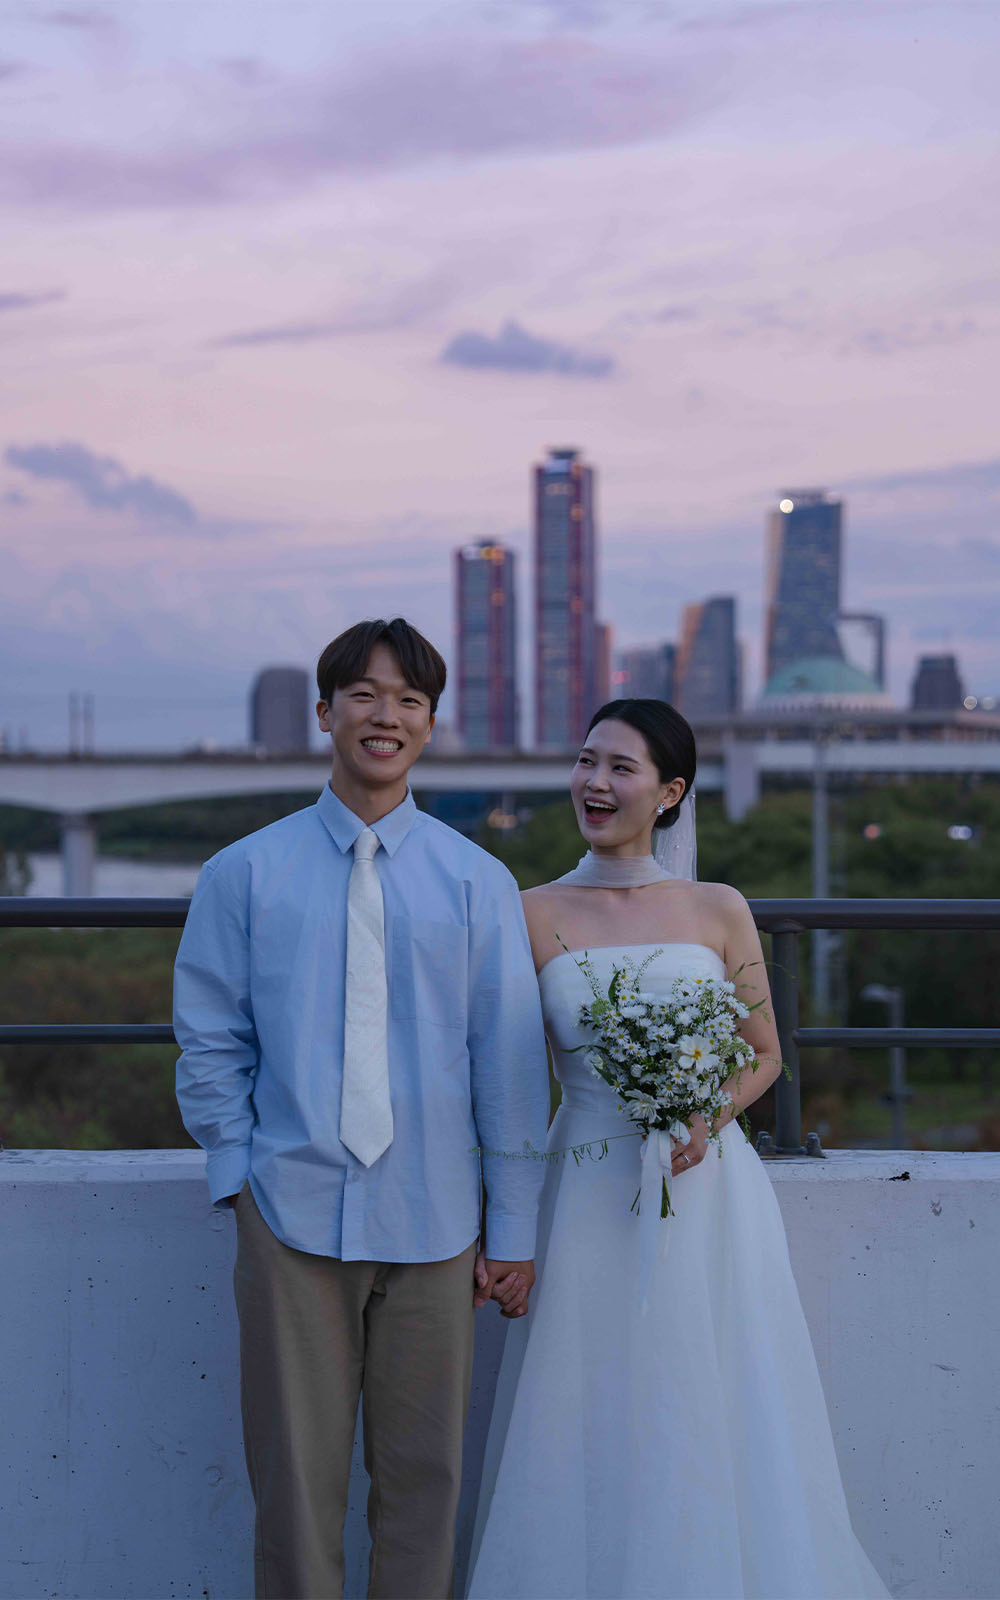
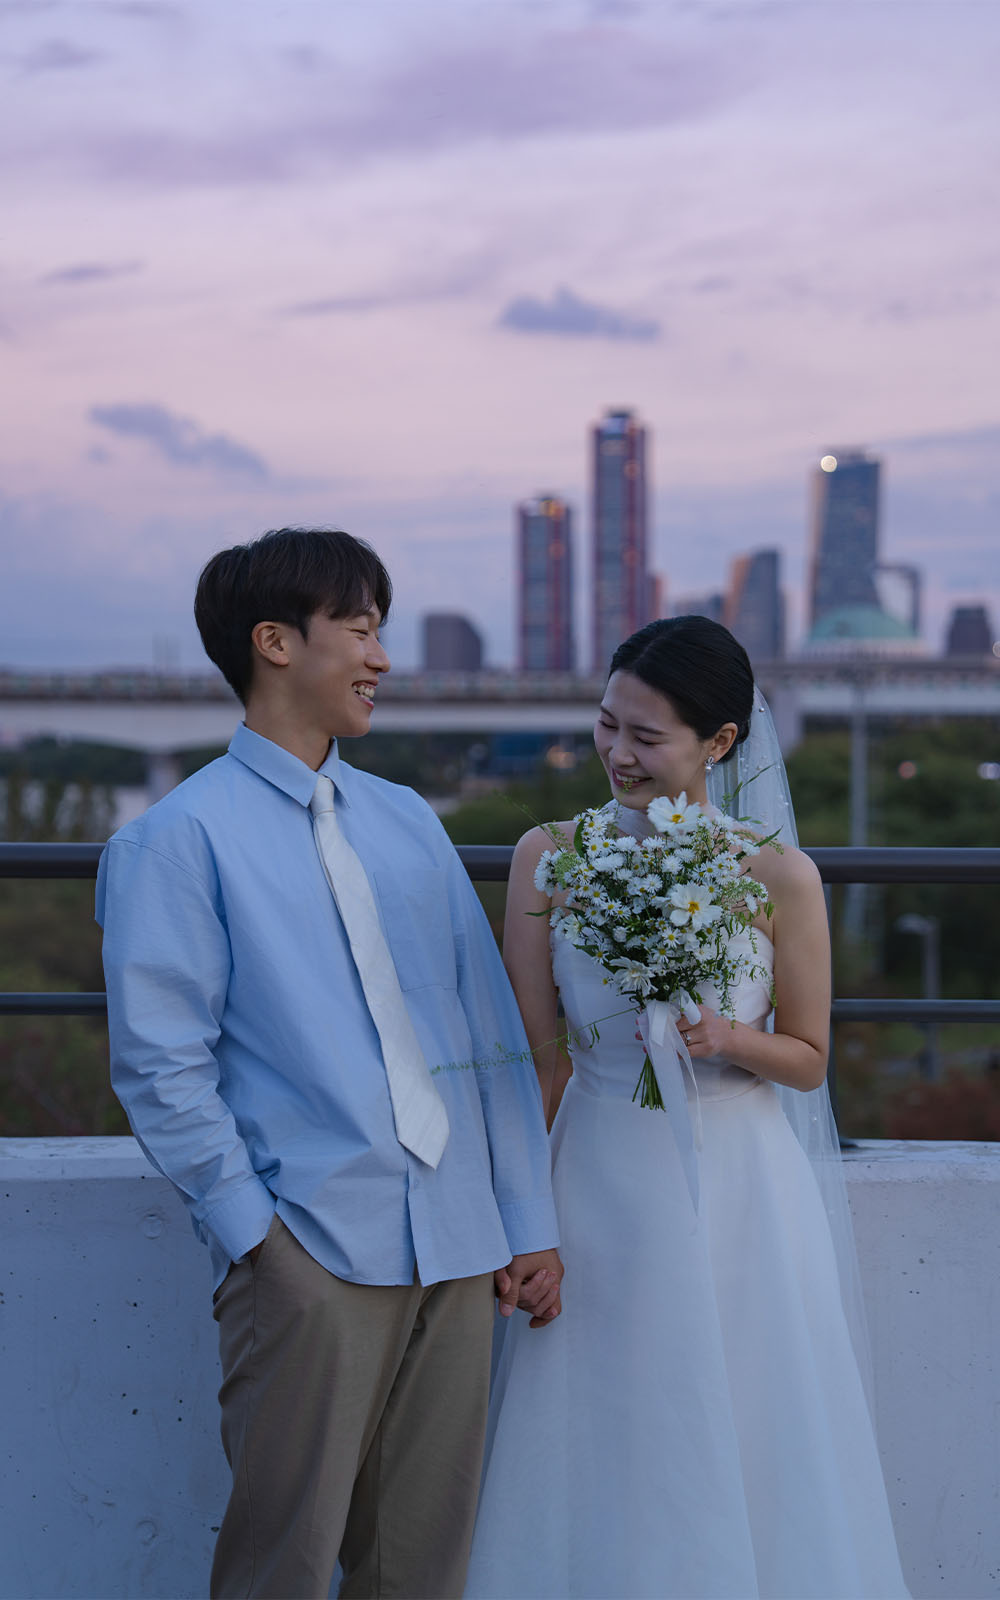
Update map zoom level and remove unnecessary parent information

diff --git a/src/layout/Location/KakaoMap.tsx b/src/layout/Location/KakaoMap.tsx
@@ -17,7 +17,7 @@ const KakaoMap = () => {
     <Map 
       center={{ lat, lng: lon }} 
       style={{ width: '100%', height: '230px' }}
-      level={3}
+      level={4}
     >
       <MapMarker position={{ lat, lng: lon }} />
     </Map>
